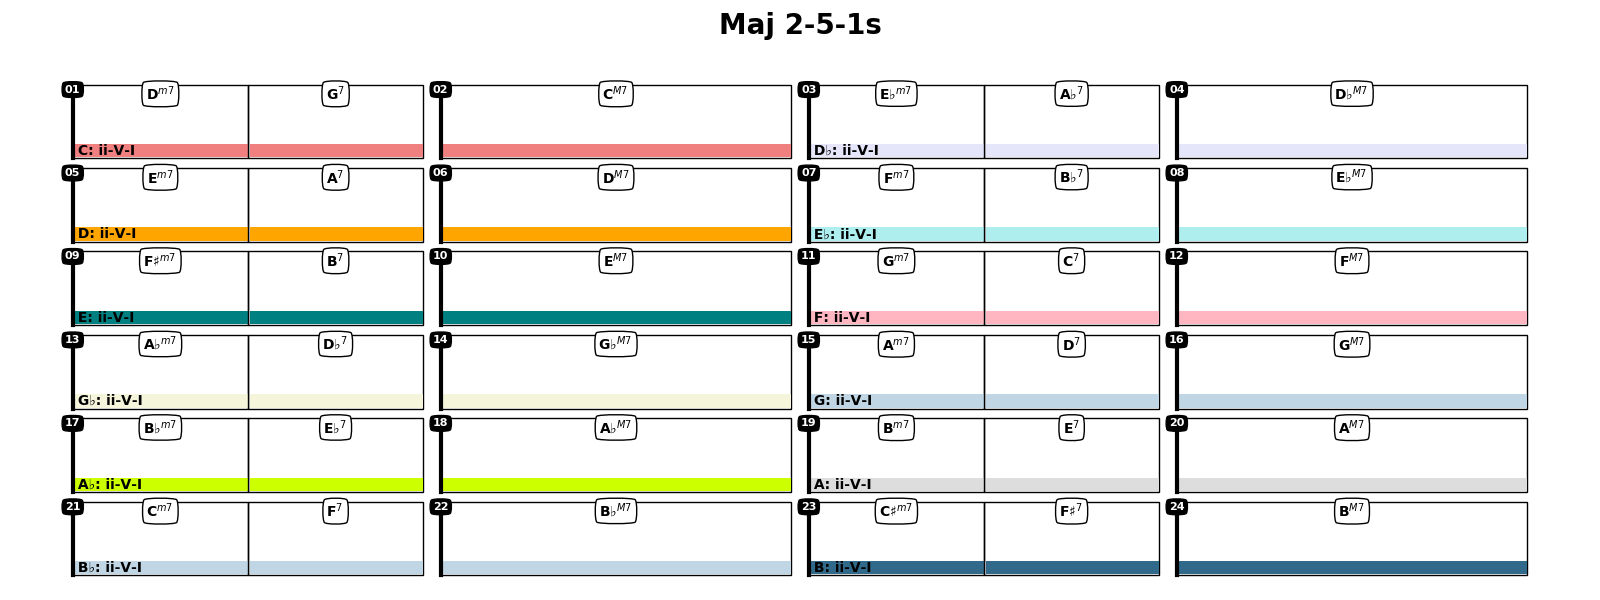
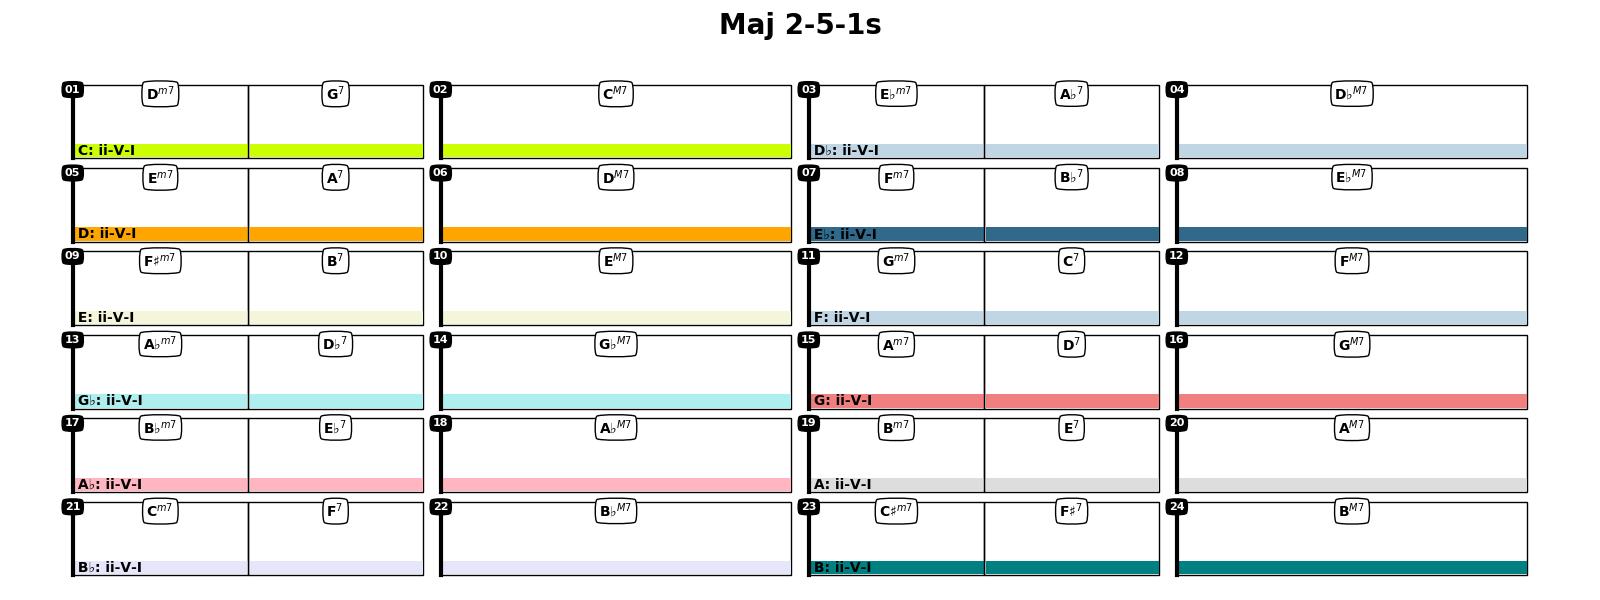
added harmonic minor to graph analysis

diff --git a/jazzElements/annotate.py b/jazzElements/annotate.py
@@ -52,7 +52,7 @@ class CadenceGraph():
                     # todo: add bVII
                     # todo: this one uses only the harmonic minor scale, should we do all three?
                     'description': 'minor chord progression from Tonal Harmony by Stefan Kostka',
-                    'key': 'harMin',
+                    'key': 'Hmin',
                     'next':
                         {
                             1: [1, 2, 3, 4, 5, 6, 7], 2: [2, 1, 5, 7], 3: [3, 2, 6, 5], 4: [4, 2, 5, 7, 1],
@@ -61,7 +61,7 @@ class CadenceGraph():
                 },
         }
 
-    def __init__(self, root, model='majKostka'):
+    def __init__(self, root, model):
         if model not in self.cadGraphs:
             raise ValueError(
                 'scale type not implemented for cadence analysis (' + '|'.join(
@@ -186,7 +186,7 @@ class Annotate():
 
         axis('off');box('off')
 
-class annGraph(Annotate):
+class EXannGraph(Annotate):
     def __init__(self, chords, model='majKostka'):
         Annotate.__init__(self, chords)
         self.name = 'Graph Method'
@@ -265,4 +265,92 @@ class annGraph(Annotate):
         self.ann = pd.DataFrame(dict(fn=fn, deg=deg, sca=sca, cad=cad,cadPos=rank,chrPos=pos))
 
 
+class annGraph(Annotate):
+    def __init__(self, chords):
+        Annotate.__init__(self, chords)
+        self.name = 'Graph Method'
+        self.description = 'We annotate first the longest sequences using a cadence graph'
 
+    def findCadencesInKey(self, key, model):
+        """
+        Returns possible cadences in self.chords using key
+        Returns:
+            list of cadences: (<size>,<start>,<key>,<cadenceList>)
+        """
+
+        keyCad = CadenceGraph(key, model)
+        Seq = []
+        cur = []  # [(<start>,<list>),...]
+
+        for ci, c in enumerate(self.chords):
+            if c in keyCad.chords:  # Current chord is in key of interest
+                if len(cur):  # At least an ongoing cadence
+                    newCur = []
+                    for x in cur:
+                        for d in keyCad.getDegree(c,strict=True):
+                            if d in keyCad.fnSeq[x[1][-1]]:  # The current chord can continue this sequence
+                                newCur.append((x[0], x[1] + [d]))
+                            else:  # A new sequence starts here
+                                Seq.append((len(x[1]), x[0], keyCad.scale.name,
+                                             [keyCad.degreesRoman[xi - 1] for xi in x[1]])) # store this cadence
+                                newCur.append((ci, [d])) # add new sequence
+
+                    cur = newCur.copy()
+
+                else:  # No cadence ongoing
+                    cur = [(ci, [x]) for x in keyCad.getDegree(c)]
+
+            else:  # current chord isnt in key, append all current cadences to Seq
+                for x in cur:
+                    Seq.append((len(x[1]), x[0], keyCad.scale.name, [keyCad.degreesRoman[xi - 1] for xi in x[1]]))
+                cur = []
+        if cur:
+            for x in cur:
+                Seq.append((len(x[1]), x[0], keyCad.scale.name, [keyCad.degreesRoman[xi - 1] for xi in x[1]]))
+        return Seq
+
+    def annotate(self, reduce=True):
+        fn = [[] for c in self.chords]
+        deg = [[] for c in self.chords]
+        sca = [[] for c in self.chords]
+        cad = [[] for c in self.chords]
+        rank=[[] for c in self.chords]
+        pos=[[] for c in self.chords]
+
+        # Find cadences in all keys
+        X = []  # [(<size>,<start>,<key>,<cadence>),...]
+        for key in Note.chrFlat:
+            X.extend(self.findCadencesInKey(key, 'minKostka'))
+        for key in Note.chrFlat:
+            X.extend(self.findCadencesInKey(key, 'majKostka'))
+
+
+        X.sort(key=lambda x: x[0], reverse=True)  # Sort by size
+
+        used = [False] * len(self.chords)
+        for x in X:
+            if not reduce or not all(used[x[1]:(x[1] + x[0])]):  # All spots are unused
+                rnk=max([len(sca[c]) for c in range(x[1], (x[1] + x[0]))])
+                # todo rank bug, e.g. myromance chord 2, two cadences have the same rank
+                for ci, c in enumerate(range(x[1], (x[1] + x[0]))):
+                    # self.fn[c].append(CadenceGraph.fnTypes[x[3][ci]]) #todo: fix
+                    deg[c].append(x[3][ci])
+                    sca[c].append(x[2])
+                    cad[c].append('-'.join(x[3]))
+                    used[c] = True
+                    rank[c].append(rnk)
+                    pos[c].append(ci)
+
+
+        self.ann = pd.DataFrame(dict(fn=fn, deg=deg, sca=sca, cad=cad,cadPos=rank,chrPos=pos))
+
+
+from jazzElements.progression import Progression
+seq=''.join(['|{},{}|{}'.format(
+    Scale(key,'hMin').getDegree(2,nbNotes=4),
+    Scale(key,'hMin').getDegree(5,nbNotes=4),
+    Scale(key,'hMin').getDegree(1,nbNotes=4) ) for key in Note.chrFlat])
+
+self=Progression(seq,'Minor 251s')
+self.annotate(reduce=False)
+self.plot('fn')

diff --git a/jazzElements/scale.py b/jazzElements/scale.py
@@ -20,11 +20,9 @@ class Scale():
         'Aeo': [2, 1, 2, 2, 1, 2, 2],
         'Loc': [1, 2, 2, 1, 2, 2, 2],
         'Chr': [1, 1, 1, 1, 1, 1, 1, 1, 1, 1, 1, 1],
-        'Natmin': [2, 1, 2, 2, 1, 2, 2],  # (Aeolian)
-        'Harmin': [2, 1, 2, 2, 1, 3, 1],
-        'Melminup': [2, 1, 2, 2, 2, 2, 1],
-        'Melmindown': [2, 1, 2, 2, 1, 2, 2],
-
+        'Hmin': [2, 1, 2, 2, 1, 3, 1], # Harmonic Minor
+        'Mmin+': [2, 1, 2, 2, 2, 2, 1], # melodic Minor up
+        'Mmin-': [2, 1, 2, 2, 1, 2, 2], # melodic Minor down
     }
     chrDegLst = ['I', 'II', 'III', 'IV', 'V', 'VI', 'VII']
     chrSubLst = \
@@ -62,7 +60,7 @@ class Scale():
         mode = mode[0].upper() + mode[1:].lower()
 
         if mode in ['Major', 'Maj']: mode = 'Ion'
-        if mode in ['Minor', 'Min']: mode = 'Aeo'
+        if mode in ['Minor', 'Min', 'Nmin']: mode = 'Aeo'
         if mode not in self.modesIntervals: raise ValueError('mode {} not implemented'.format(mode))
 
         self.root = Note(root)

diff --git a/jazzElements/progression.py b/jazzElements/progression.py
@@ -50,7 +50,7 @@ class Progression:
         self.cfg = \
             {
                 'colors': ['#c0d6e4', '#afeeee', '#dddddd', '#ffb6c1', '#e6e6fa', '#f5f5dc', '#ccff00', '#31698a',
-                           '#f08080', '#ffa500', '#008080'] * 2,
+                           '#f08080', '#ffa500', '#008080'] * 3,
                 'barsPerRow': 4,
                 'sepx': 0,
                 'sepy': 20,
@@ -317,9 +317,9 @@ class Progression:
     #                     raise ValueError(
     #                         'Found multiple substitutions at bar ' + str(c['bar']) + ' ' + c['chr'])
 
-    def annotate(self, method='graph',model='majKostka', reduce=True):
+    def annotate(self, method='graph', reduce=True):
         if method == 'graph':
-            self.ann = annGraph(self.chords,model)
+            self.ann = annGraph(self.chords)
         else:
             warnings.warn('not implemented')
 

diff --git a/docs/mkDocFigs.py b/docs/mkDocFigs.py
@@ -64,9 +64,21 @@ seq=''.join(['|{},{}|{}'.format(
     Scale(key,'Ion').getDegree(2,nbNotes=4),
     Scale(key,'Ion').getDegree(5,nbNotes=4),
     Scale(key,'Ion').getDegree(1,nbNotes=4) ) for key in Note.chrFlat])
-prg=Progression(chr,name='Maj 2-5-1s')
+prg=Progression(seq,name='Maj 2-5-1s')
 prg.annotate()
 prg.plot('kbd')
 savefig('./img/maj251sKbd.png')
 prg.plot('fn')
 savefig('./img/maj251sFn.png')
+
+# Minor2-5-1
+seq=''.join(['|{},{}|{}'.format(
+    Scale(key,'hMin').getDegree(2,nbNotes=4),
+    Scale(key,'hMin').getDegree(5,nbNotes=4),
+    Scale(key,'hMin').getDegree(1,nbNotes=4) ) for key in Note.chrFlat])
+prg=Progression(seq,name='Min 2-5-1s')
+prg.annotate()
+prg.plot('kbd')
+savefig('./img/min251sKbd.png')
+prg.plot('fn')
+savefig('./img/min251sFn.png')

diff --git a/jazzElements/chord.py b/jazzElements/chord.py
@@ -85,8 +85,8 @@ class Chord:
 
     chrFamilies = \
         {
-            'maj': ['M', 'M6', 'M7', 'M9', 'M13', '6/9'],
-            'min': ['m', 'm6', 'm7', 'm9', 'm11', 'm13'],
+            'maj': ['M', 'M6', 'M7', 'M9', 'M13', '6/9',''],
+            'min': ['m', 'm6', 'm7', 'm9', 'm11', 'm13','mM7'],
             'dim': ['o', 'o7', 'ø'],
             'dom': ['7', '7b5', '9', '13'],
             'aug': ['aug','aug6', '7+5'],

diff --git a/docs/examples.rst b/docs/examples.rst
@@ -56,3 +56,22 @@ We can then use the keyboard view to play the chords (upper keyboard) with the l
 .. image:: img/maj251sKbd.png
     :width: 500pt
 
+Likewise, we can train on 4 notes chords in the harmonic minor 2-5-1s
+
+>>> # Generating the 4 notes 2-5-1s for every root:
+>>> seq=''.join(['|{},{}|{}'.format(
+>>>     Scale(key,'hMin').getDegree(2,nbNotes=4),
+>>>     Scale(key,'hMin').getDegree(5,nbNotes=4),
+>>>     Scale(key,'hMin').getDegree(1,nbNotes=4) ) for key in Note.chrFlat])
+
+>>> prg=Progression(chr,name='Min 2-5-1s')
+>>> prg.annotate()
+>>> prg.plot('fn') # Plot the analysis view
+>>> prg.plot('kbd') # Plot the keyboard view
+
+.. image:: img/min251sFn.png
+    :width: 500pt
+
+.. image:: img/min251sKbd.png
+    :width: 500pt
+

diff --git a/docs/scale.rst b/docs/scale.rst
@@ -2,7 +2,7 @@
 
 Scales
 ======
-Scales can be instantiated as s=Scale(root='C', mode='Ion') or Scale('C harMin').
+Scales can be instantiated as s=Scale(root='C', mode='Ion') or Scale('C Hmin').
 Attributes
 ----------
 
